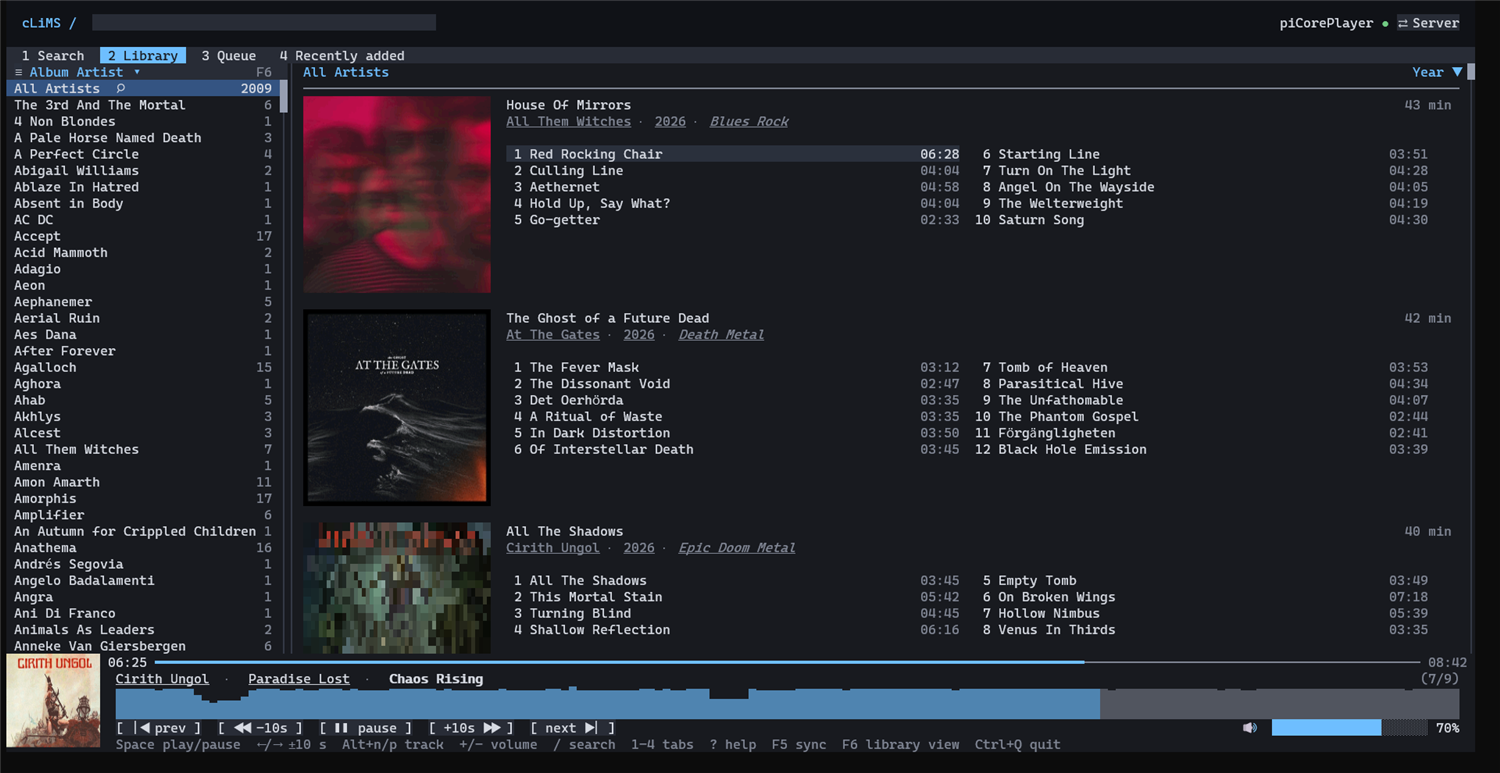
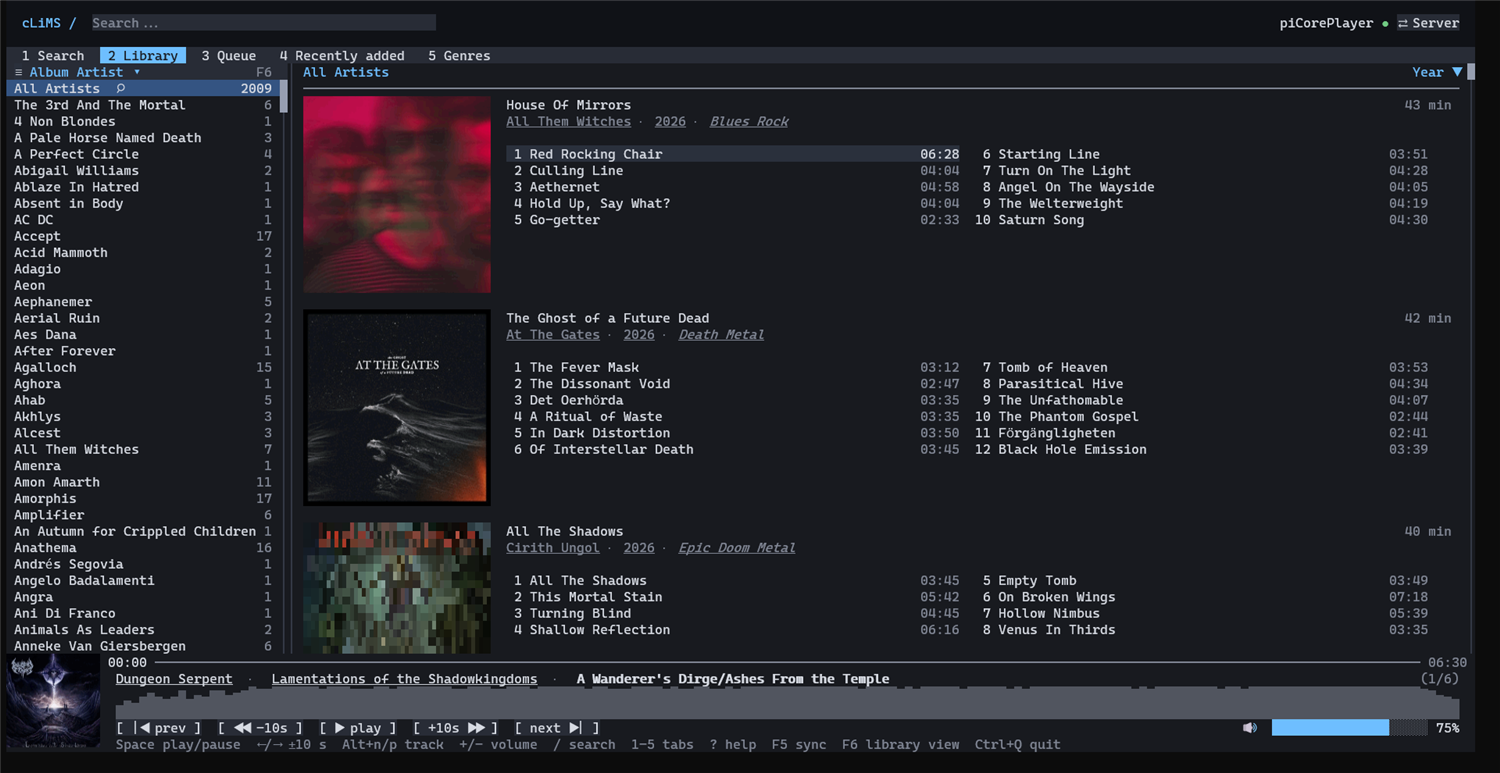
Preparing for 0.9.0 release

diff --git a/src/Clims.Tui/Ui/HelpOverlay.cs b/src/Clims.Tui/Ui/HelpOverlay.cs
@@ -1,3 +1,6 @@
+using Terminal.Gui.Drivers;
+using Terminal.Gui.Input;
+
 namespace Clims.Tui.Ui;
 
 /// <summary>The key reference, drawn over the tabs when <c>?</c> is pressed (any tab, any time the search box is not being typed in).</summary>
@@ -15,8 +18,7 @@ public sealed class HelpOverlay : PaintView
         ("F2  ⇄ Server", "Connect to another server or enter a login (button at the top right)"),
         ("F5", "Resync the library, or cancel a running sync"),
         ("F3  F4", "Cover rendering mode / list cover size"),
-        ("?", "This help"),
-        ("Ctrl+Q", "Quit"),
+        ("?  Ctrl+Q", "This help / Quit"),
         ("Library and search results", ""),
         ("Enter  double click", "Play (replaces the queue, restarts the stream), open an artist or genre; a single click only selects"),
         ("Right click", "Menu on a cover or track: Play, Enqueue"),
@@ -32,11 +34,14 @@ public sealed class HelpOverlay : PaintView
         ("o", "Saved queues: Enter replaces the queue (asks first), a appends, x deletes, Esc back"),
         ("Genres tab", ""),
         ("Up  Down  Enter", "Pick a genre: the next column lists the genres that share a track with it; Enter or Right goes there, Left or Backspace back"),
-        ("Ctrl+F", "Filter the genres of the active column (Enter keeps it, Esc clears it)"),
+        ("Ctrl+F  Esc", "Filter the active column (Enter keeps it, Esc clears it); Esc with no filter clears the whole chain"),
         ("Alt+R  Alt+Q", "Random queue of the tagged tracks: replace the queue (asks first) / append"),
         ("[  ]", "Random queue size: 25, 50 or 100 tracks (or click it)"),
-        ("Esc", "Clear the genre chain"),
     };
+
+    private const string Note = "Playing an album from the library restarts the stream; adding to the queue keeps playback gapless.";
+
+    private int _offset;
 
     public HelpOverlay()
     {
@@ -46,33 +51,108 @@ public sealed class HelpOverlay : PaintView
 
     protected override Attribute Base => new(Theme.Fg, Theme.BgAlt);
 
+    /// <summary>Back to the top, for when the help is opened again.</summary>
+    public void ScrollToTop() => _offset = 0;
+
+    /// <summary>Rows that fit under the title.</summary>
+    private int Room => Math.Max(1, H - 3);
+
+    /// <summary>What is drawn: every line, a blank row before each section title but the first, and the closing note.</summary>
+    private static int RowCount => Lines.Length + Lines.Count(l => l.What.Length == 0) - 1 + 1;
+
     protected override void Paint()
     {
         var attr = new Attribute(Theme.Fg, Theme.BgAlt);
         var head = new Attribute(Theme.Accent, Theme.BgAlt);
         var dim = new Attribute(Theme.FgDim, Theme.BgAlt);
-        var y = 1;
-        Put(2, y++, "cLiMS keys   (press ? or Esc to close)", head);
-        y++;
-        foreach (var (keys, what) in Lines)
+        var scrolls = RowCount > Room;
+        _offset = Math.Clamp(_offset, 0, Math.Max(0, RowCount - Room));
+        Put(2, 1, "cLiMS keys   (press ? or Esc to close)" + (scrolls ? "   ↑ ↓ PgUp PgDn scroll" : ""), head);
+
+        var row = 0;
+        void Emit(Action<int> draw)
         {
-            if (y >= H - 1)
+            var y = 3 + row - _offset;
+            if (y >= 3 && y < 3 + Room)
             {
-                break;
+                draw(y);
             }
 
+            row++;
+        }
+
+        foreach (var (keys, what) in Lines)
+        {
             if (what.Length == 0)
             {
-                y++;
-                Put(2, y++, keys, head);
+                if (row > 0)
+                {
+                    Emit(_ => { });
+                }
+
+                Emit(y => Put(2, y, keys, head));
                 continue;
             }
 
-            Put(4, y, keys, new Attribute(Theme.Warn, Theme.BgAlt));
-            Put(26, y, Clip(what, W - 28), attr);
-            y++;
+            Emit(y =>
+            {
+                Put(4, y, keys, new Attribute(Theme.Warn, Theme.BgAlt));
+                Put(26, y, Clip(what, W - 28), attr);
+            });
         }
 
-        Put(2, Math.Min(H - 1, y + 1), "Playing an album from the library restarts the stream; adding to the queue keeps playback gapless.", dim);
+        Emit(y => Put(2, y, Clip(Note, W - 4), dim));
+        PaintScrollbar(RowCount, _offset, Room);
+    }
+
+    protected override bool OnKeyDown(Key key)
+    {
+        var page = Math.Max(1, Room - 1);
+        switch (key.KeyCode)
+        {
+            case KeyCode.CursorDown:
+                Scroll(1);
+                return true;
+            case KeyCode.CursorUp:
+                Scroll(-1);
+                return true;
+            case KeyCode.PageDown:
+                Scroll(page);
+                return true;
+            case KeyCode.PageUp:
+                Scroll(-page);
+                return true;
+            case KeyCode.Home:
+                Scroll(-RowCount);
+                return true;
+            case KeyCode.End:
+                Scroll(RowCount);
+                return true;
+        }
+
+        return base.OnKeyDown(key);
+    }
+
+    protected override bool OnMouseEvent(Mouse mouse)
+    {
+        if (mouse.Flags.HasFlag(MouseFlags.WheeledDown))
+        {
+            Scroll(3);
+            return true;
+        }
+
+        if (mouse.Flags.HasFlag(MouseFlags.WheeledUp))
+        {
+            Scroll(-3);
+            return true;
+        }
+
+        return base.OnMouseEvent(mouse);
+    }
+
+    private void Scroll(int delta)
+    {
+        _offset = Math.Clamp(_offset + delta, 0, Math.Max(0, RowCount - Room));
+        SetNeedsDraw();
     }
 }

diff --git a/tests/Clims.Waveform.Tests/SpectrumTests.cs b/tests/Clims.Waveform.Tests/SpectrumTests.cs
@@ -44,4 +44,18 @@ public sealed class SpectrumTests
         using var b = new MemoryStream(Audio.Wav(1, 1));
         Assert.Equal(PeakAnalyzer.Analyze(a, 50).Peaks, PeakAnalyzer.AnalyzeAll(b, 50).Peaks.Peaks);
     }
+
+    [Theory]
+    [InlineData(44100, 2)]
+    [InlineData(48000, 2)]
+    [InlineData(96000, 2)]
+    [InlineData(22050, 1)]
+    public void Real_world_sample_rates_and_channel_counts_are_analysed(int rate, int channels)
+    {
+        using var stream = new MemoryStream(Audio.Wav(quiet: 1, loud: 2, channels: channels, rate: rate));
+        var analysis = PeakAnalyzer.AnalyzeAll(stream);
+
+        Assert.InRange(analysis.Spectrum.FrameCount, 55, 61); // three seconds at 20 frames a second
+        Assert.Equal(255, analysis.Spectrum.At(TimeSpan.FromSeconds(2)).ToArray().Max());
+    }
 }

diff --git a/src/Clims.Tui/Ui/MainWindow.cs b/src/Clims.Tui/Ui/MainWindow.cs
@@ -992,6 +992,7 @@ public sealed class MainWindow : Window
         _help.Visible = _helpVisible;
         if (_helpVisible)
         {
+            _help.ScrollToTop();
             // Sixel images sit above any text, so the pages underneath must stop showing theirs while help is open.
             foreach (var page in _pages)
             {

diff --git a/CHANGELOG.md b/CHANGELOG.md
@@ -3,18 +3,27 @@ All notable changes are listed here. The format follows [Keep a Changelog](https
 
 ## [Unreleased]
 
-## [0.9.0] - Unreleased
+## [0.9.0] - 2026-11-09
 
 ### Added
 - Cover cache: covers are kept in a SQLite file of their own (`covers-<server uuid>.db`) and filled lazily, so later launches show them without asking the server. The normal (300 px) and full-screen (900 px) covers each have a time to live and an optional entry limit in the `CoverCache` node of `settings.json` (on by default, 30 days; the full-screen covers keep the newest 50).
 - Genres explorer, a fifth tab (key `5`): pick a genre and the next column lists the genres that share at least one track with it, pick again to narrow further. The artists of the tracks tagged with the whole chain are listed underneath, and a random queue of 25, 50 or 100 of those tracks can replace the queue or be appended. Because a track can carry several genres (the track listing reports only one), the sync now also asks the server for the tracks of each genre (about 40 s more on a 20,000-track library) and the index stores those links. An index saved before this keeps working (each track has its one genre then); resync with F5 to get them all.
+- Genres explorer, bottom panel: "Items tagged Death Metal + Thrash Metal · N artists · N tracks". The artists are shown first; click "N tracks" to list the tracks instead (artist · album · title, with how many genres each carries), click "N artists" to go back. It stays empty until a genre is chosen and takes the bottom third of the tab. The filter uses the same ⌕ icon as the Library (or `Ctrl+F`).
+- The search box shows a dim "Search..." hint while it is empty and not focused.
+- The terminal title follows the player: `cLiMS ▶ - Track name` while playing, `cLiMS ⏸ - Track name` while paused, `cLiMS` with nothing loaded.
 
 ### Changed
 - Releases ship two builds per platform: the default self-contained one is now compressed (about 45 MB instead of 96 MB), and a new `-framework-dependent` one (about 26 MB) needs the .NET 10 runtime installed.
 - Digit keys switch tabs even when a list with type-ahead has focus, unless a jump is in progress (they used to be typed into the list's type-ahead).
+- The `?` help scrolls (arrow keys, Page Up/Down, Home/End, the wheel) when it does not fit the window, and lists the Genres tab keys.
 
 ### Fixed
 - Covers (Sixel images) no longer stay missing after the terminal window is resized: once the size stops changing they are sent to the terminal again.
+- Clicking the "5 Genres" tab (or any tab) puts the focus on its page; it used to leave it in the search box.
+- Dragging a scrollbar no longer selects whatever is under the pointer when the button is released, in the Library, Recently added, Search and Genres lists; and a scrollbar drag that passes over the Library's divider no longer starts resizing the column.
+- In the Genres tab, clicking a genre no longer scrolls its column so that the genre ends up on the last row, and switching to another tab and back keeps the whole chain of chosen genres (only the first one was kept).
+- Clicking a column title in the Genres tab no longer picks a genre, and no genre looks highlighted while nothing is chosen.
+- The CI timing test for the local search on 20,000 tracks no longer fails on a busy runner (it takes the fastest of several runs).
 
 ## [0.8.0] - 2026-11-08
 
@@ -56,3 +65,4 @@ First tagged release.
 
 [0.7.0]: https://github.com/tanathos/cLiMS/releases/tag/v0.7.0
 [0.8.0]: https://github.com/tanathos/cLiMS/releases/tag/v0.8.0
+[0.9.0]: https://github.com/tanathos/cLiMS/releases/tag/v0.9.0

diff --git a/README.md b/README.md
@@ -22,13 +22,17 @@ Browse a large library, search it as you type, see real cover art in the termina
 - Read-only toward your library: nothing is synced, and no player state changes, without you asking.
 
 ## Screenshots
-The Library, with covers, genres in italic, a resizable and filterable left column, and the player footer (cover, waveform, controls):
+The Library, with covers, genres in italic, a resizable and filterable left column, and the player footer (cover, waveform, controls). The search box shows a hint until you focus it, and the terminal title follows the player (`cLiMS ▶ - Track name`):
 
 ![Library](screenshots/library.png)
 
 The Recently added tab: the newest 50 albums on the server, newest first:
 
 ![Recently added](screenshots/recent.png)
+
+The Genres explorer: Death Metal, then Thrash Metal, then Experimental, each column narrowing to the genres that share tracks with the choices so far. The artists of the tracks tagged with all three are listed underneath (click "75 tracks" to list the tracks instead), and a random queue can be started from them:
+
+![Genres](screenshots/genres.png)
 
 Click the cover in the player to see the playing album full screen:
 
@@ -52,7 +56,7 @@ The built-in key reference (`?`):
 
 ## Requirements
 - [.NET 10 SDK](https://dotnet.microsoft.com/download) to build from source, or a published build: the default download needs no .NET, the `-framework-dependent` one needs the [.NET 10 runtime](https://dotnet.microsoft.com/download/dotnet/10.0).
-- A true-colour terminal. [Windows Terminal](https://aka.ms/terminal) 1.22 or later is the reference and gives Sixel covers. Minimum comfortable size is 100x30; below that the footer drops the cover and waveform but keeps the controls.
+- A true-colour terminal. [Windows Terminal](https://aka.ms/terminal) 1.22 or later is the reference and gives Sixel covers. Minimum comfortable size is 100x30; below that the footer drops the cover and waveform but keeps the controls (the `?` help scrolls when it does not fit).
 - A Lyrion Music Server reachable from your PC (web port 9000, command line port 9090).
 
 ## Quick start
@@ -189,6 +193,8 @@ Done so far (details in [`docs/sprint.md`](docs/sprint.md)):
 | 6 | First run: server discovery, connect screen with address form, password-protected servers, per-server index, `F2` / `⇄ Server` | Done. Auth is tested against fakes only (no password-protected server was available) |
 | 7 | Recently added tab (key `4`) from LMS `albums sort:new` | Done |
 | 0.7.0 | First tagged release: MIT license, changelog, release workflow for Windows, Linux and macOS | Done |
+| 0.8.0 | Full-screen album view, album context menu, sort label, queue position in the player | Done |
+| 0.9.0 | Genres explorer (tab `5`) with random queues, cover cache on disk, compressed and framework-dependent builds, mouse and resize fixes | Done |
 
 Deferred: player selector, live visualiser, themes and key binding configuration, remembering several servers at once.
 
